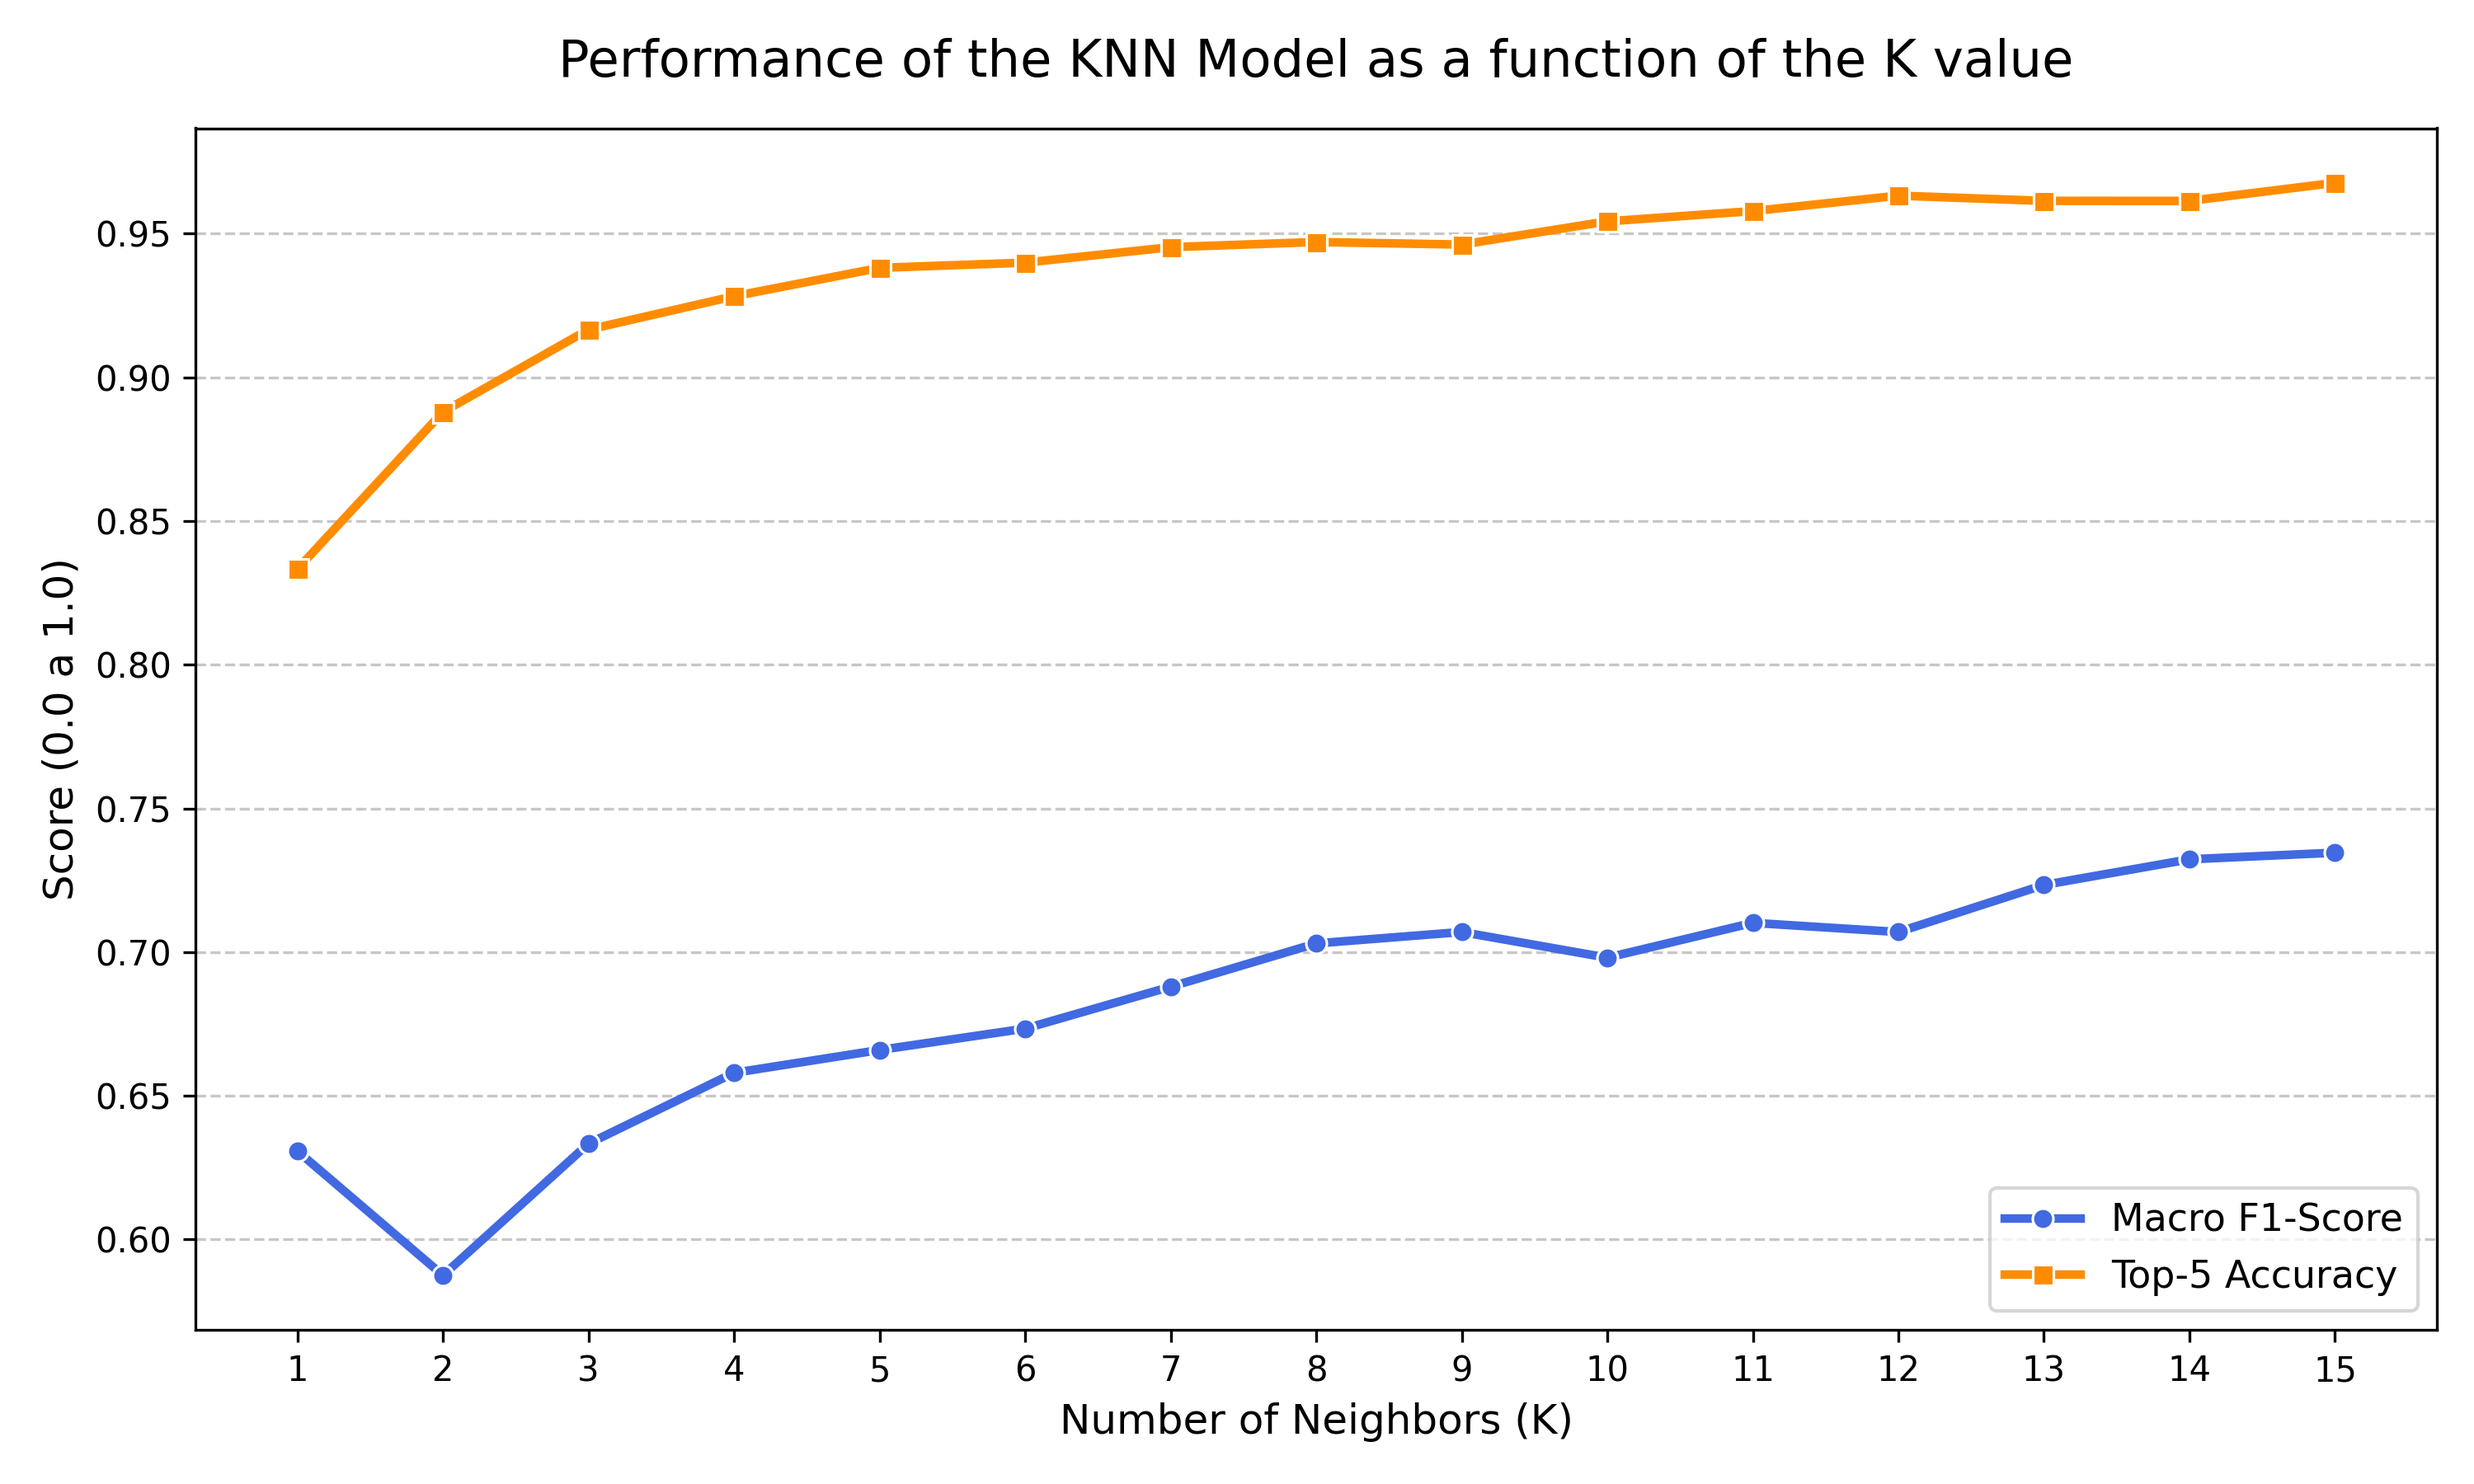
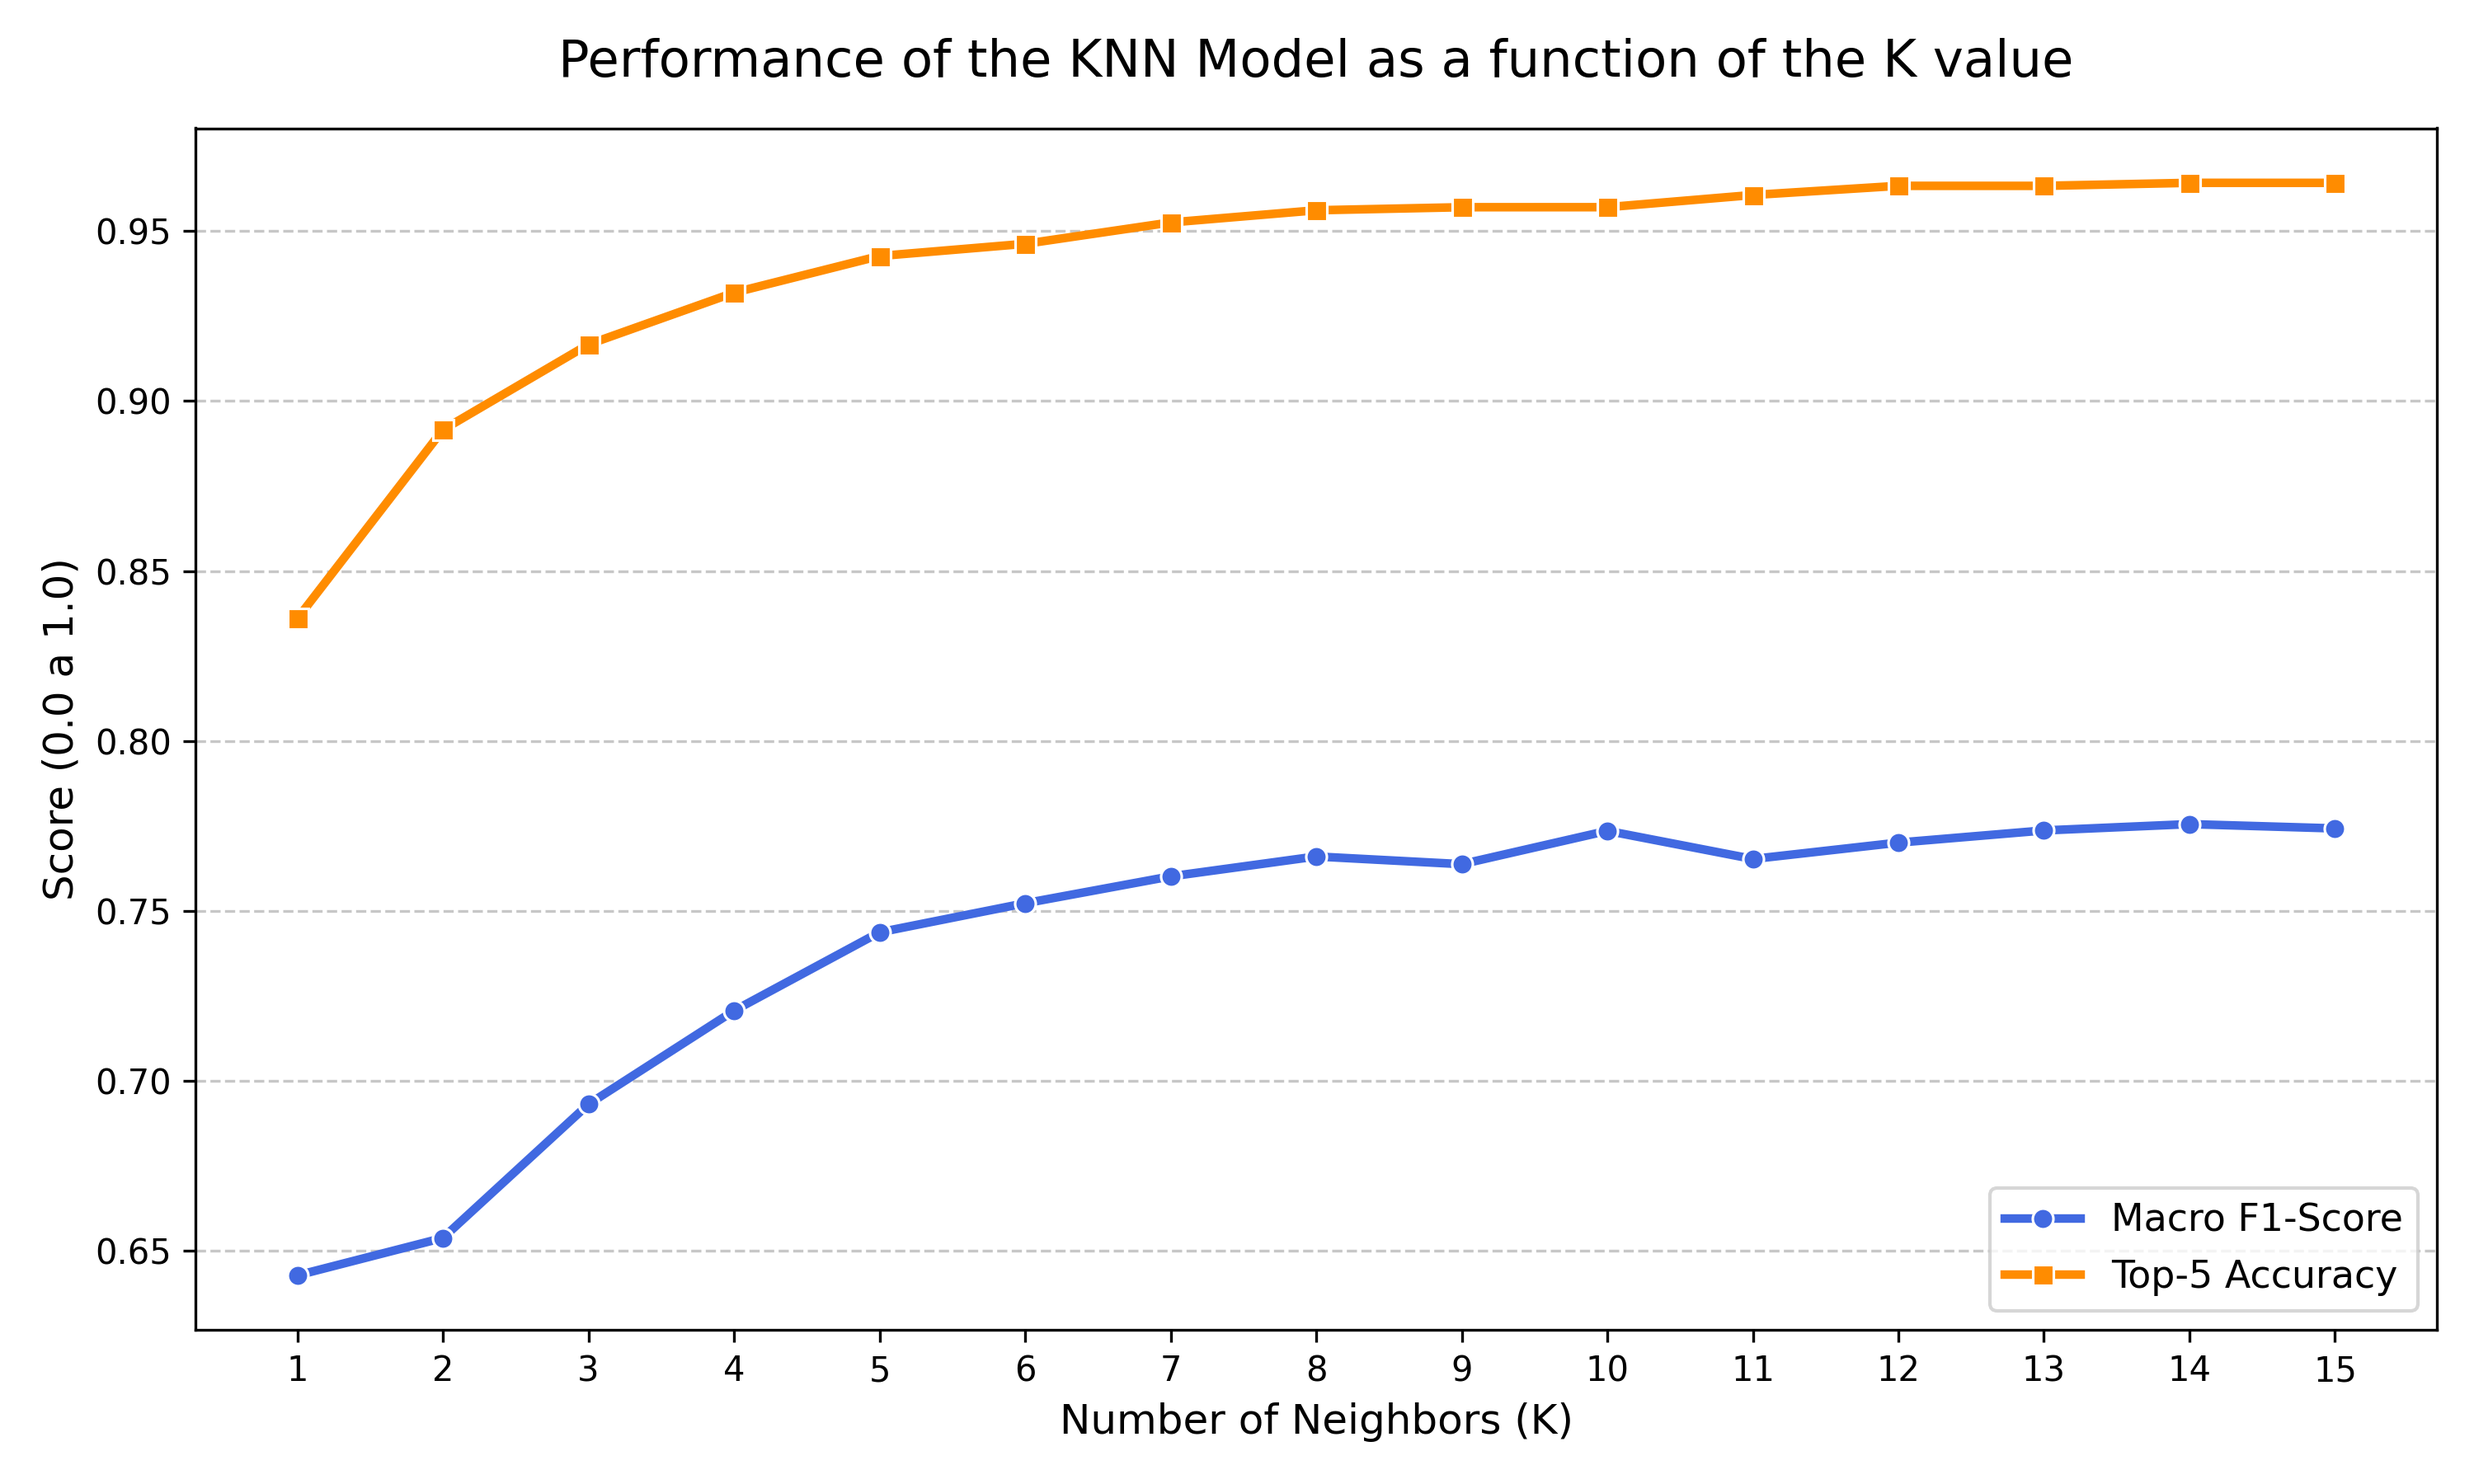
feat: improve classification with subject-aware evaluation

diff --git a/src/model_pipeline.py b/src/model_pipeline.py
@@ -1,7 +1,7 @@
 import numpy as np
 import pandas as pd
 from sklearn.neighbors import KNeighborsClassifier
-from sklearn.model_selection import StratifiedKFold
+from sklearn.model_selection import StratifiedGroupKFold
 from sklearn.preprocessing import LabelEncoder
 from src.utils.logger import get_logger
 from src.metrics import calculate_f1_score, calculate_top_k_accuracy
@@ -22,6 +22,7 @@ class ModelPipeline:
         self.le = LabelEncoder()
         self.y = self.le.fit_transform(df['syndrome_id'].values)
         self.num_classes = len(self.le.classes_)
+        self.groups = df['subject_id'].values
         
         logger.info(f"Feature matrix shape: {self.X.shape}")
         logger.info(f"Number of distinct syndromes (classes): {self.num_classes}")
@@ -36,42 +37,40 @@ class ModelPipeline:
         distances = ['euclidean', 'cosine'] 
         results = []
         
-        skf = StratifiedKFold(n_splits=n_splits, shuffle=True, random_state=42)
-
+        sgkf = StratifiedGroupKFold(n_splits=n_splits, shuffle=True, random_state=42)
         for distance in distances:
             logger.info(f"Evaluating Distance Metric: {distance.upper()}")
             
             for k in range(1, max_k + 1): # K de 1-15
                 fold_f1 = []
                 fold_top5 = []
-                
                 all_y_true = []
                 all_y_prob = []
 
-                for train_index, test_index in skf.split(self.X, self.y):
+                for train_index, test_index in sgkf.split(self.X, self.y, groups=self.groups):
                     X_train, X_test = self.X[train_index], self.X[test_index]
                     y_train, y_test = self.y[train_index], self.y[test_index]
 
-                    knn = KNeighborsClassifier(n_neighbors=k, metric=distance)
+                    knn = KNeighborsClassifier(n_neighbors=k, metric=distance, weights='distance')
                     knn.fit(X_train, y_train)
-
                     y_pred = knn.predict(X_test)
+
+                    groups_test = self.groups[test_index]
+                    y_true_subj, y_pred_subj = self.predict_by_subject(X_test, y_test, groups_test, knn)
+
                     y_prob = knn.predict_proba(X_test)
-                    
-                   
                     y_pred_rankings = np.argsort(y_prob, axis=1)[:, ::-1]
 
-                    fold_f1.append(calculate_f1_score(y_test, y_pred))
+                    fold_f1.append(calculate_f1_score(y_true_subj, y_pred_subj))
                     fold_top5.append(calculate_top_k_accuracy(y_test, y_pred_rankings, k=5))
-                    
+
                     all_y_true.extend(y_test)
                     all_y_prob.extend(y_prob)
-
+                
                 avg_f1 = np.mean(fold_f1)
                 avg_top5 = np.mean(fold_top5)
-                
-                logger.info(f"k={k}; {distance}; F1: {avg_f1:.4f}; Top-5 Acc: {avg_top5:.4f}")
-                
+                logger.info(f"k={k}, {distance}; F1: {avg_f1:.4f}, Top-5 Acc: {avg_top5:.4f}")
+
                 results.append({
                     'distance_metric': distance,
                     'k': k,
@@ -94,3 +93,18 @@ class ModelPipeline:
         logger.info(f"F1-Score: {best_config['avg_f1_score']:.4f}")
         
         return best_config
+    
+    def predict_by_subject(self, X_test: np.ndarray, y_test: np.ndarray, groups_test: np.ndarray, knn) ->tuple:
+        y_prob = knn.predict_proba(X_test)
+
+        subject_ids = np.unique(groups_test)
+        y_true_subject = []
+        y_pred_subject = []
+
+        for subject in subject_ids:
+            mask = groups_test == subject
+            avg_prob = y_prob[mask].mean(axis=0)
+            y_pred_subject.append(np.argmax(avg_prob))
+            y_true_subject.append(y_test[mask][0])
+
+        return np.array(y_true_subject), np.array(y_pred_subject)
